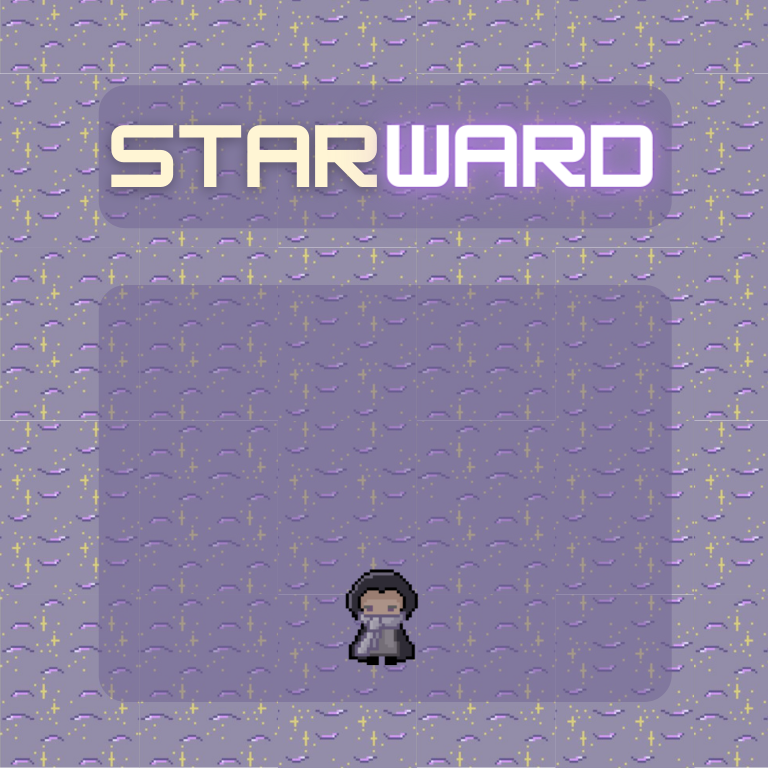
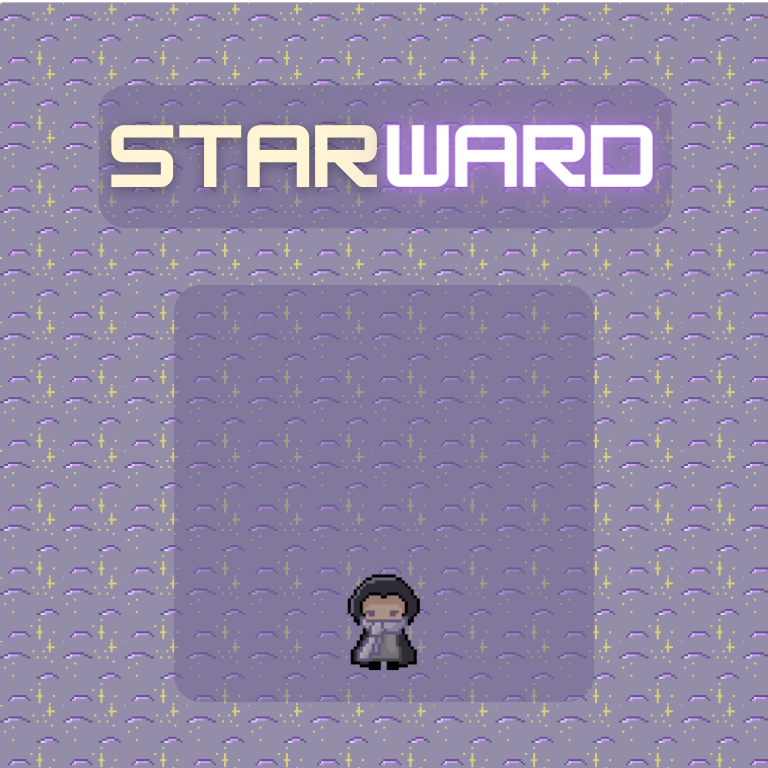
Updated start menu design.

diff --git a/Boot.js b/Boot.js
@@ -11,12 +11,11 @@ Starward.Boot.prototype = {
 
 	create: function() {
 		background = this.add.sprite(0, 0, 'background');
-		// startButton = this.add.sprite(384, 360, 'startButton');
-		var tutorialButton = this.add.button(384, 470, 'tutorialButton', tutorial());
+		var tutorialButton = this.add.button(384, 490, 'tutorialButton', tutorial());
 		tutorialButton.scale.setTo(.8);
 		tutorialButton.anchor.set(.5,.5);
 
-		var startButton = this.add.button(384, 360, "startButton", startGame)
+		var startButton = this.add.button(384, 370, "startButton", startGame)
 		startButton.scale.setTo(.8);
 		startButton.anchor.set(.5,.5);
 
